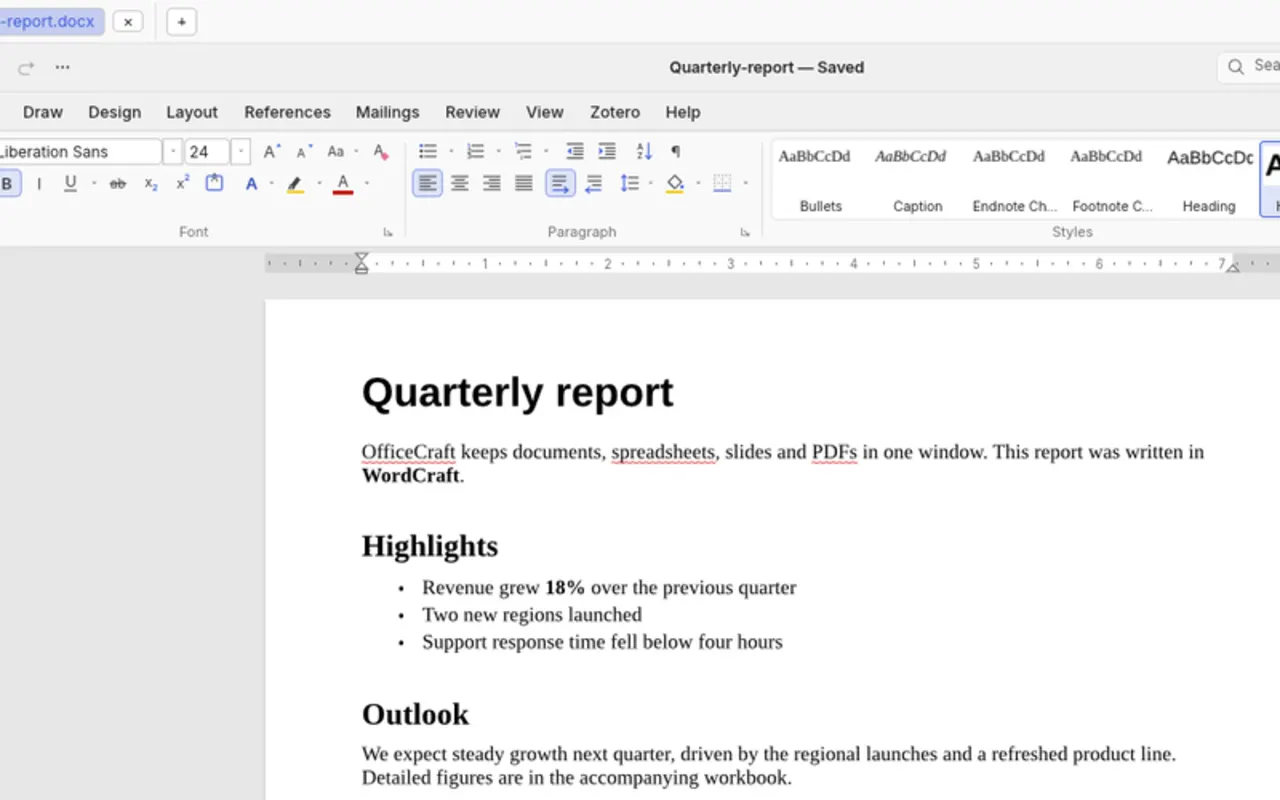
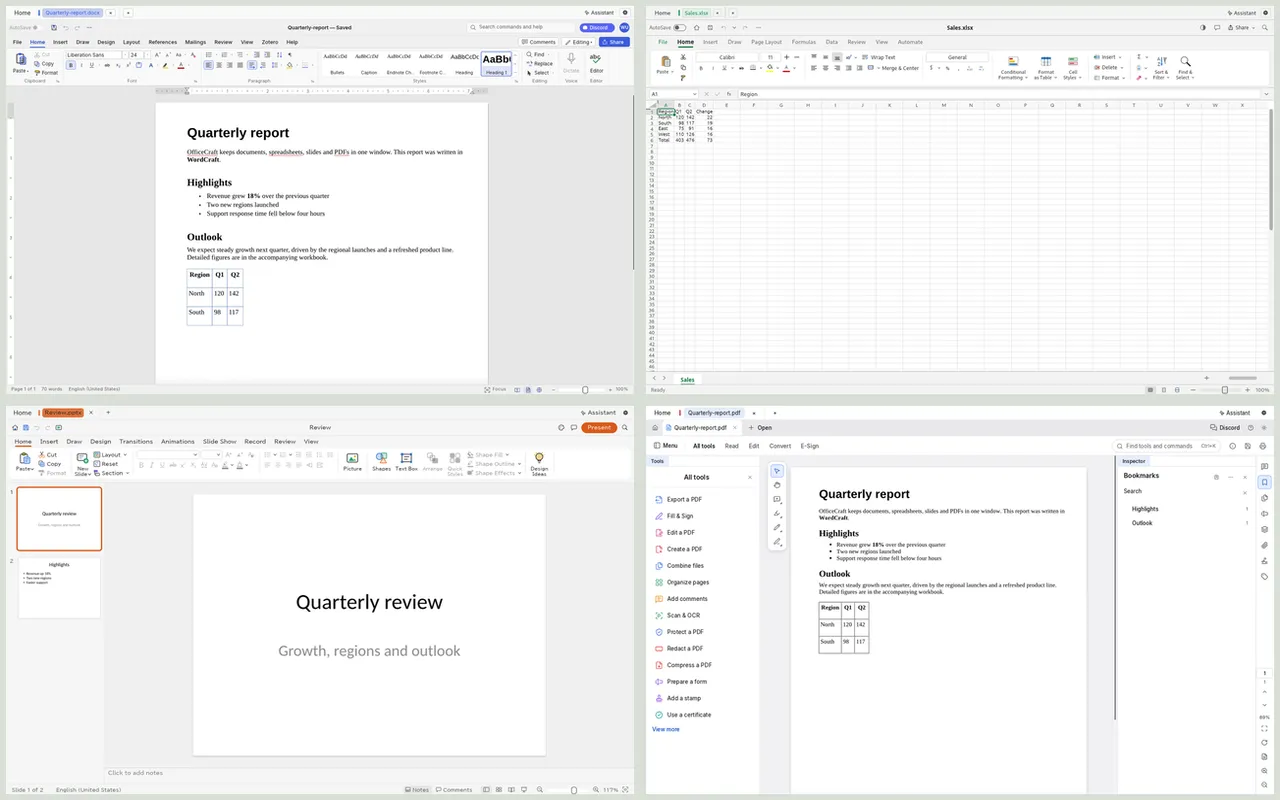
UI climb r14: drop the scorecard, four-app OfficeCraft, bio-led answer key
Remove the stats scorecard the critic kept flagging for crowding the top;
the problem set now starts right under the hero. OfficeCraft's image is
a 2x2 of its four apps (Word, Sheets, Slides, PDF) from the repo's own
screenshots. The answer key leads with the author bio as a ruled
paragraph, with the three remaining questions in a row.

diff --git a/index.html b/index.html
@@ -111,7 +111,7 @@
     .sheet-head nav a { white-space: nowrap; }
 
     /* Hero */
-    .hero { display: grid; grid-template-columns: 1fr; gap: 3rem; padding: 3rem 0 3.5rem; }
+    .hero { display: grid; grid-template-columns: 1fr; gap: 3rem; padding: 3rem 0 4rem; }
     @media (min-width: 900px) { .hero { grid-template-columns: 1.05fr 1fr; gap: 3.5rem; align-items: center; padding: 4.5rem 0 4rem; } }
     .hero h1 {
       margin: 0 0 1.5rem; font-weight: 750; font-stretch: 90%;
@@ -273,11 +273,14 @@
     /* Answer key: four index cards */
     .key { padding: 3rem 0 4.5rem; border-top: 2px solid var(--ink); }
     .key .sig { color: var(--red); font-weight: 300; margin-right: 0.1em; }
-    .key .big { font-size: clamp(1.2rem, 2vw, 1.5rem); line-height: 1.35; font-weight: 400; color: var(--ink-soft); margin: 0.9rem 0 2rem; max-width: 62ch; }
+    .key .big { font-size: clamp(1.2rem, 2vw, 1.5rem); line-height: 1.35; font-weight: 400; color: var(--ink-soft); margin: 0.9rem 0 1.25rem; max-width: 62ch; }
+    .key .bio { margin: 0 0 2.5rem; max-width: 60ch; font-size: 1.12rem; color: var(--ink); padding-left: 1.1rem; border-left: 3px solid var(--red); }
+    .key .bio a { color: var(--red); font-weight: 600; text-underline-offset: 3px; }
     .key .cards { margin: 0; padding: 0; list-style: none; counter-reset: k; display: grid; grid-template-columns: 1fr; gap: 1.5rem; }
-    @media (min-width: 760px) { .key .cards { grid-template-columns: 1fr 1fr; gap: 2.25rem 3rem; } }
-    .key .cards li { counter-increment: k; border-left: 3px solid var(--red); padding: 0.2rem 0 0.3rem 1.1rem; }
+    @media (min-width: 760px) { .key .cards { grid-template-columns: repeat(3, 1fr); gap: 2rem 2.5rem; } }
+    .key .cards li { counter-increment: k; border-top: 1px dashed color-mix(in srgb, var(--ink) 35%, transparent); padding: 0.9rem 0 0; }
     .key .cards h3 { margin: 0 0 0.5rem; font-size: 1.25rem; letter-spacing: 0; font-weight: 700; font-stretch: 100%; }
+    .key .cards { counter-reset: k 1; }
     .key .cards h3::before { content: counter(k, lower-alpha) ") "; font-family: var(--hand); font-size: 1.5rem; color: var(--red); }
     .key .cards p { margin: 0; color: var(--ink); }
     .key .cards a { color: var(--red); font-weight: 600; text-decoration-thickness: 1.5px; text-underline-offset: 3px; }
@@ -344,12 +347,6 @@
         <p class="stack-cap">rāSHio drawing a histogram and box plot, live in the browser.</p>
       </section>
 
-      <div class="score reveal" role="group" aria-label="Scorecard">
-        <div class="grade"><span class="num">20</span><span class="lbl">projects</span></div>
-        <div><span class="num">11</span><span class="lbl">live now</span></div>
-        <div><span class="num">9</span><span class="lbl">source only</span></div>
-        <div><span class="num">10+</span><span class="lbl">years teaching</span></div>
-      </div>
 
       <section id="problems" aria-labelledby="problems-title">
         <div class="ph"><div>
@@ -422,7 +419,7 @@
           </article>
 
           <article class="prob s3 reveal" data-cat="make">
-            <figure class="print"><picture><source media="(max-width: 759px)" srcset="img/officecraft-doc.webp"><img style="--pos: 35% top" src="img/officecraft-wide.webp" width="1280" height="800" loading="lazy" alt="OfficeCraft's home screen with WordCraft, GridCraft, DeckCraft, PdfCraft, viSHual, equaSHion and verSHion."></picture><figcaption class="strip"><span class="stamp live">Live</span><span class="note" aria-hidden="true">docs, sheets, slides, PDF.</span></figcaption></figure>
+            <figure class="print"><picture><source media="(max-width: 759px)" srcset="img/officecraft-doc.webp"><img style="--pos: 35% top" src="img/officecraft-wide.webp" width="1280" height="800" loading="lazy" alt="OfficeCraft running its four apps: a WordCraft report, a GridCraft sheet, a DeckCraft slide and a PdfCraft PDF."></picture><figcaption class="strip"><span class="stamp live">Live</span><span class="note" aria-hidden="true">docs, sheets, slides, PDF.</span></figcaption></figure>
             <div class="head"><span class="n">8.</span><h3><a href="https://officecraft.lefthanddev.com/">OfficeCraft</a></h3></div>
             <p><strong class="lead">Documents, spreadsheets, slides and PDFs as tabs in one window.</strong> Opens .docx, .xlsx and .pptx, with equaSHion and verSHion built in. Every app is written in Rust.</p>
             <span class="given"><b>Given:</b> Rust, egui, wgpu</span>
@@ -486,9 +483,9 @@
         <div class="key-head">
           <h2 id="key-title"><span class="sig" aria-hidden="true">&Sigma;</span> Answer key</h2>
           <p class="big">One teacher, one left hand, and a habit of fixing the thing that slowed class down.</p>
+          <p class="bio">Steven Huff: math educator, CS teacher and curriculum developer, ten-plus years from elementary through college. The full CV lives at <a href="https://steven.lefthanddev.com/">steven.lefthanddev.com</a>.</p>
         </div>
         <ol class="cards">
-          <li><h3>Who writes this?</h3><p>Steven Huff: math educator, CS teacher and curriculum developer, ten-plus years from elementary through college. The full CV lives at <a href="https://steven.lefthanddev.com/">steven.lefthanddev.com</a>.</p></li>
           <li><h3>Why "Left Hand"?</h3><p>Lefties drag their hand through wet ink, so every line gets checked twice. The smudge is a feature.</p></li>
           <li><h3>Why the capital SH?</h3><p>They're the initials. rā<span class="sh">SH</span>io, book<span class="sh">SH</span>elf, ver<span class="sh">SH</span>ion: the tools sign their own names.</p></li>
           <li><h3>What's the rule?</h3><p>A student should open the page, get the answer, and get back to the homework. Student data stays on the student's machine wherever possible.</p></li>
